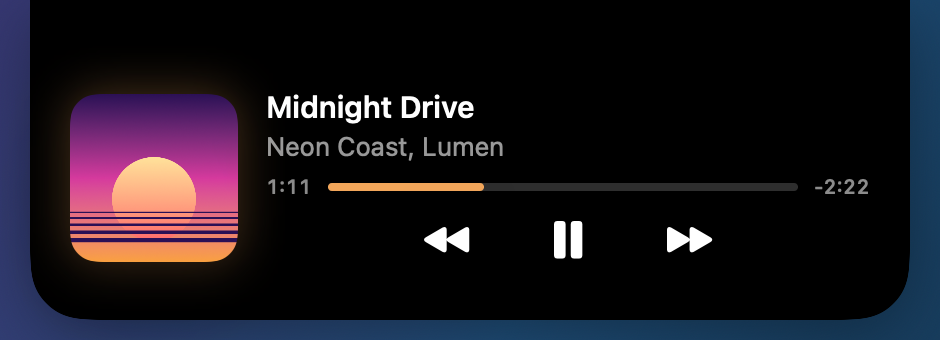
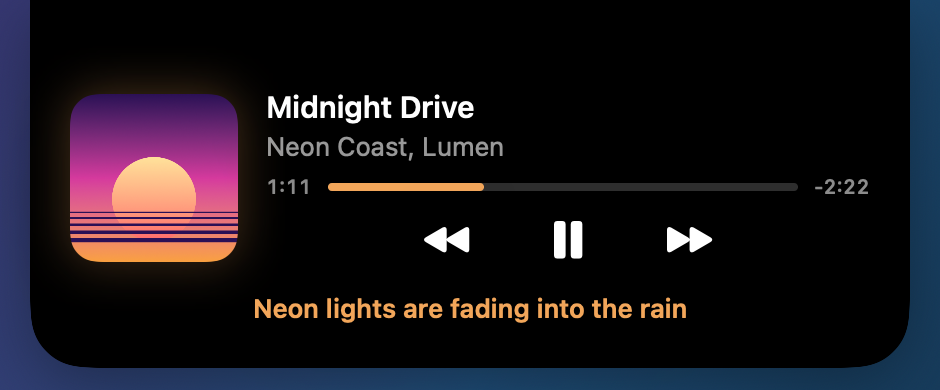
feat(music): show synced lyrics from lrclib in the expanded player

diff --git a/Sources/SpectrumCore/Lyrics.swift b/Sources/SpectrumCore/Lyrics.swift
@@ -1,0 +1,77 @@
+import Foundation
+
+/// Time-synced lyrics in the LRC format: `[mm:ss.xx] text`.
+public struct Lyrics: Equatable, Sendable {
+    public struct Line: Equatable, Sendable {
+        public let time: TimeInterval
+        public let text: String
+    }
+
+    public let lines: [Line]
+
+    /// Nil when the text has no timed lines, e.g. plain lyrics.
+    public init?(lrc: String) {
+        var lines: [Line] = []
+        for raw in lrc.split(separator: "\n") {
+            var rest = Substring(raw)
+            var times: [TimeInterval] = []
+            // A line can carry several timestamps when it repeats, like a chorus.
+            while rest.hasPrefix("["), let close = rest.firstIndex(of: "]") {
+                let tag = rest[rest.index(after: rest.startIndex)..<close]
+                guard let time = Self.seconds(tag) else { break }
+                times.append(time)
+                rest = rest[rest.index(after: close)...]
+            }
+            let text = rest.trimmingCharacters(in: .whitespaces)
+            lines += times.map { Line(time: $0, text: text) }
+        }
+        guard !lines.isEmpty else { return nil }
+        self.lines = lines.sorted { $0.time < $1.time }
+    }
+
+    /// The line being sung at `position`, or nil before the first one and during breaks.
+    public func line(at position: TimeInterval) -> String? {
+        guard let current = lines.last(where: { $0.time <= position }), !current.text.isEmpty
+        else { return nil }
+        return current.text
+    }
+
+    /// `mm:ss.xx`; metadata tags like `ar: Artist` don't parse.
+    private static func seconds(_ tag: Substring) -> TimeInterval? {
+        let parts = tag.split(separator: ":")
+        guard parts.count == 2, let minutes = Double(parts[0]), let seconds = Double(parts[1])
+        else { return nil }
+        return minutes * 60 + seconds
+    }
+}
+
+/// lrclib.net: a free, open lyrics database with synced lyrics and no API key.
+public enum LRCLib {
+    public static func url(for track: NowPlaying) -> URL? {
+        var components = URLComponents(string: "https://lrclib.net/api/get")
+        var items = [
+            URLQueryItem(name: "track_name", value: track.title),
+            URLQueryItem(name: "artist_name", value: track.artist),
+        ]
+        if !track.album.isEmpty {
+            items.append(URLQueryItem(name: "album_name", value: track.album))
+        }
+        // The duration narrows the match to the right recording.
+        if track.duration > 0 {
+            items.append(
+                URLQueryItem(name: "duration", value: String(Int(track.duration.rounded()))))
+        }
+        components?.queryItems = items
+        return components?.url
+    }
+
+    private struct Response: Decodable {
+        let syncedLyrics: String?
+    }
+
+    public static func lyrics(from data: Data) -> Lyrics? {
+        guard let synced = (try? JSONDecoder().decode(Response.self, from: data))?.syncedLyrics
+        else { return nil }
+        return Lyrics(lrc: synced)
+    }
+}

diff --git a/Sources/Spectrum/NotchModel.swift b/Sources/Spectrum/NotchModel.swift
@@ -30,6 +30,8 @@ final class NotchModel {
 
     var nowPlaying: NowPlaying? { didSet { updateMode() } }
     var artwork: NSImage?
+    /// Synced lyrics of the playing track, when lrclib.net has them.
+    var lyrics: Lyrics?
     var accent: Color = .white
 
     var codeSessions: [AgentSession] = [] { didSet { refreshSessions() } }
@@ -225,14 +227,20 @@ enum NotchLayout {
     /// Signals stay quiet: each ear only fits a small status icon next to the hardware notch.
     static let signalEarWidth: CGFloat = 30
 
-    static func size(for mode: NotchMode, geometry: NotchGeometry) -> CGSize {
+    /// Extra height of the expanded player for the lyrics line.
+    static let lyricsHeight: CGFloat = 24
+
+    static func size(for mode: NotchMode, geometry: NotchGeometry, lyrics: Bool = false)
+        -> CGSize
+    {
         let notch = geometry.notch.size
         switch mode {
         case .hidden: return notch
         case .compact: return geometry.panel.size
         case .expanded:
             return CGSize(
-                width: expandedSize.width, height: notch.height + expandedSize.height)
+                width: expandedSize.width,
+                height: notch.height + expandedSize.height + (lyrics ? lyricsHeight : 0))
         case .agents:
             return CGSize(width: agentsSize.width, height: notch.height + agentsSize.height)
         case .attention, .done:
@@ -262,8 +270,10 @@ enum NotchLayout {
     }
 
     /// Visible island in screen coordinates.
-    static func visibleRect(for mode: NotchMode, geometry: NotchGeometry) -> CGRect {
-        let size = size(for: mode, geometry: geometry)
+    static func visibleRect(for mode: NotchMode, geometry: NotchGeometry, lyrics: Bool = false)
+        -> CGRect
+    {
+        let size = size(for: mode, geometry: geometry, lyrics: lyrics)
         return CGRect(
             x: geometry.notch.midX - size.width / 2, y: geometry.notch.maxY - size.height,
             width: size.width, height: size.height)

diff --git a/Tests/SpectrumCoreTests/LyricsTests.swift b/Tests/SpectrumCoreTests/LyricsTests.swift
@@ -1,0 +1,46 @@
+import Foundation
+import Testing
+
+@testable import SpectrumCore
+
+@Test func parsesTimedLinesAndSkipsTags() {
+    let lyrics = Lyrics(
+        lrc: """
+            [ar: Neon Coast]
+            [00:12.50] Night falls on the highway
+            [00:15.00][01:15.00] Midnight drive
+            [00:18.20]
+            [00:20.00] Into the light
+            """)
+
+    #expect(lyrics?.lines.map(\.time) == [12.5, 15, 18.2, 20, 75])
+    #expect(lyrics?.line(at: 5) == nil)
+    #expect(lyrics?.line(at: 14) == "Night falls on the highway")
+    #expect(lyrics?.line(at: 16) == "Midnight drive")
+    // An empty timed line is an instrumental break.
+    #expect(lyrics?.line(at: 19) == nil)
+    #expect(lyrics?.line(at: 80) == "Midnight drive")
+}
+
+@Test func noLyricsWithoutTimedLines() {
+    #expect(Lyrics(lrc: "Just plain words\nwithout timing") == nil)
+}
+
+@Test func lrclibQueryNamesTheTrack() throws {
+    let track = NowPlaying(
+        title: "Midnight Drive", artist: "Neon Coast", album: "Lumen", duration: 214.6,
+        isPlaying: true, bundleID: "com.spotify.client")
+    let url = try #require(LRCLib.url(for: track))
+    let items = URLComponents(url: url, resolvingAgainstBaseURL: false)?.queryItems ?? []
+
+    #expect(url.host == "lrclib.net")
+    #expect(items.first { $0.name == "track_name" }?.value == "Midnight Drive")
+    #expect(items.first { $0.name == "artist_name" }?.value == "Neon Coast")
+    #expect(items.first { $0.name == "duration" }?.value == "215")
+}
+
+@Test func lrclibResponseGivesSyncedLyrics() {
+    let json = #"{"id":1,"instrumental":false,"syncedLyrics":"[00:01.00] Hello"}"#
+    #expect(LRCLib.lyrics(from: Data(json.utf8))?.line(at: 2) == "Hello")
+    #expect(LRCLib.lyrics(from: Data(#"{"syncedLyrics":null}"#.utf8)) == nil)
+}

diff --git a/Sources/Spectrum/NowPlayingMonitor.swift b/Sources/Spectrum/NowPlayingMonitor.swift
@@ -163,7 +163,12 @@ final class NowPlayingMonitor {
         guard let track, !track.isSameTrack(as: previous) else { return }
         model.artwork = nil
         model.accent = .white
+        model.lyrics = nil
         Task { await loadArtwork(for: track) }
+        if model.settings.showLyrics {
+            // The player's own artist field: featured artists added later would miss the match.
+            Task { await loadLyrics(for: track) }
+        }
         if let uri = track.trackURI, spotifyArtists[uri] == nil {
             Task { await loadSpotifyArtists(uri: uri) }
         }
@@ -179,6 +184,20 @@ final class NowPlayingMonitor {
         if model.nowPlaying?.trackURI == uri {
             model.nowPlaying?.artist = artists.joined(separator: ", ")
         }
+    }
+
+    private func loadLyrics(for track: NowPlaying) async {
+        guard let url = LRCLib.url(for: track) else { return }
+        var request = URLRequest(url: url)
+        // lrclib asks clients to identify themselves.
+        request.setValue(
+            "Spectrum (https://github.com/asykixd/spectrum)", forHTTPHeaderField: "User-Agent")
+        guard let (data, response) = try? await URLSession.shared.data(for: request),
+            (response as? HTTPURLResponse)?.statusCode == 200,
+            let lyrics = LRCLib.lyrics(from: data),
+            model.nowPlaying?.isSameTrack(as: track) == true
+        else { return }
+        model.lyrics = lyrics
     }
 
     private func loadArtwork(for track: NowPlaying) async {

diff --git a/Sources/Spectrum/MusicViews.swift b/Sources/Spectrum/MusicViews.swift
@@ -123,6 +123,9 @@ struct ExpandedMusicView: View {
                 }
                 .padding(.horizontal, 20)
                 .padding(.vertical, 12)
+                if let lyrics = model.lyrics {
+                    LyricLine(lyrics: lyrics, track: track, accent: model.accent)
+                }
             }
         }
     }
@@ -147,6 +150,30 @@ private struct PlayerIcon: View {
         var rect = CGRect(x: 0, y: 0, width: 36, height: 36)
         return NSWorkspace.shared.icon(forFile: url.path)
             .cgImage(forProposedRect: &rect, context: nil, hints: nil)
+    }
+}
+
+/// The line being sung, under the player.
+private struct LyricLine: View {
+    let lyrics: Lyrics
+    let track: NowPlaying
+    let accent: Color
+
+    var body: some View {
+        TimelineView(.periodic(from: .now, by: 0.25)) { timeline in
+            let line = lyrics.line(at: track.position(at: timeline.date)) ?? "♪"
+            Text(line)
+                .font(.system(size: 13, weight: .semibold))
+                .foregroundStyle(accent)
+                .lineLimit(1)
+                .truncationMode(.tail)
+                .padding(.horizontal, 20)
+                .frame(maxWidth: .infinity, alignment: .center)
+                .id(line)
+                .transition(.opacity)
+                .animation(.easeInOut(duration: 0.25), value: line)
+        }
+        .frame(height: NotchLayout.lyricsHeight, alignment: .top)
     }
 }
 

diff --git a/Sources/SpectrumCore/SpectrumSettings.swift b/Sources/SpectrumCore/SpectrumSettings.swift
@@ -33,6 +33,8 @@ public struct SpectrumSettings: Codable, Equatable, Sendable {
     public var flashWhenDone = true
     /// Let Claude Code permission requests be allowed or denied from the island.
     public var answerPermissions = true
+    /// Fetch synced lyrics from lrclib.net for the expanded player.
+    public var showLyrics = true
 
     public init() {}
 
@@ -72,6 +74,8 @@ public struct SpectrumSettings: Codable, Equatable, Sendable {
         answerPermissions =
             try container.decodeIfPresent(Bool.self, forKey: .answerPermissions)
             ?? defaults.answerPermissions
+        showLyrics =
+            try container.decodeIfPresent(Bool.self, forKey: .showLyrics) ?? defaults.showLyrics
     }
 
     public static func load(from defaults: UserDefaults, key: String = "settings")

diff --git a/Sources/Spectrum/AppDelegate.swift b/Sources/Spectrum/AppDelegate.swift
@@ -171,7 +171,8 @@ final class AppDelegate: NSObject, NSApplicationDelegate {
     /// compact so clicks reach the menu bar underneath.
     private func tick() {
         guard let model, let panel else { return }
-        let rect = NotchLayout.visibleRect(for: model.mode, geometry: model.geometry)
+        let rect = NotchLayout.visibleRect(
+            for: model.mode, geometry: model.geometry, lyrics: model.lyrics != nil)
         let hovering = rect.insetBy(dx: -2, dy: -2).contains(NSEvent.mouseLocation)
         if model.isHovering != hovering { model.isHovering = hovering }
         // A half-typed reply keeps the panel open even if the pointer drifts away.

diff --git a/Sources/Spectrum/PreviewRenderer.swift b/Sources/Spectrum/PreviewRenderer.swift
@@ -69,6 +69,9 @@ enum PreviewRenderer {
                     title: "Midnight Drive", artist: "Neon Coast, Lumen", duration: 214,
                     elapsed: 71, sampledAt: Date(), isPlaying: true,
                     bundleID: "com.spotify.client")
+                if scene.hovering {
+                    model.lyrics = Lyrics(lrc: "[01:05.00] Neon lights are fading into the rain")
+                }
             }
             if let before = scene.before { model.codeSessions = before }
             model.chatSessions = scene.sessions.filter { $0.kind == .chat }

diff --git a/Sources/Spectrum/SettingsView.swift b/Sources/Spectrum/SettingsView.swift
@@ -8,6 +8,10 @@ struct SettingsView: View {
         Form {
             Section("Notch") {
                 Toggle("Show music while it plays", isOn: $model.settings.showMusic)
+                Toggle(isOn: $model.settings.showLyrics) {
+                    Text("Show synced lyrics in the expanded player")
+                    Text("Looks up the playing track's title and artist on lrclib.net.")
+                }
                 Toggle(
                     "Trackpad haptics when the island opens and closes",
                     isOn: $model.settings.haptics)

diff --git a/Sources/Spectrum/NotchRootView.swift b/Sources/Spectrum/NotchRootView.swift
@@ -5,7 +5,9 @@ struct NotchRootView: View {
     let model: NotchModel
 
     private var mode: NotchMode { model.mode }
-    private var size: CGSize { NotchLayout.size(for: mode, geometry: model.geometry) }
+    private var size: CGSize {
+        NotchLayout.size(for: mode, geometry: model.geometry, lyrics: model.lyrics != nil)
+    }
     private var shape: UnevenRoundedRectangle {
         let radius = NotchLayout.bottomRadius(for: mode)
         return UnevenRoundedRectangle(bottomLeadingRadius: radius, bottomTrailingRadius: radius)

diff --git a/README.md b/README.md
@@ -30,7 +30,8 @@ desks, talk in the meeting room and doze on the sofa.
 
 - Invisible when idle; a compact live activity with artwork and a waveform tinted by the cover
   while music plays.
-- Hover to expand: title, every featured artist, progress, previous / play-pause / next.
+- Hover to expand: title, every featured artist, progress, previous / play-pause / next, and the
+  line being sung when [lrclib.net](https://lrclib.net) has synced lyrics for the track.
 - Two-finger swipe across the player changes the track.
 - Spotify and Apple Music.
 
@@ -128,6 +129,7 @@ The gear in the agents panel opens Settings, installs or removes the hooks and q
 | Setting | Default |
 | --- | --- |
 | Show music while it plays | On |
+| Show synced lyrics in the expanded player | On |
 | Blink when an agent needs permission or an answer | On |
 | Flash a checkmark when a task finishes | On |
 | Allow or deny permission requests from the island | On |

diff --git a/CHANGELOG.md b/CHANGELOG.md
@@ -17,6 +17,7 @@ All notable changes to this project are documented here. The format follows
 - Office monitors show what the tool does: a page of text while reading, a terminal for
   commands, a browser for web search, code for edits.
 - Subagents appear as small interns on their agent's desk.
+- Synced lyrics in the expanded player, from lrclib.net; can be turned off in Settings.
 - Start a new Claude Code session from the panel: pick a recent folder, type an optional first
   prompt, and it opens in Terminal.
 - Boss tab: today's cost at API prices, tokens, time agents worked and the current five-hour
